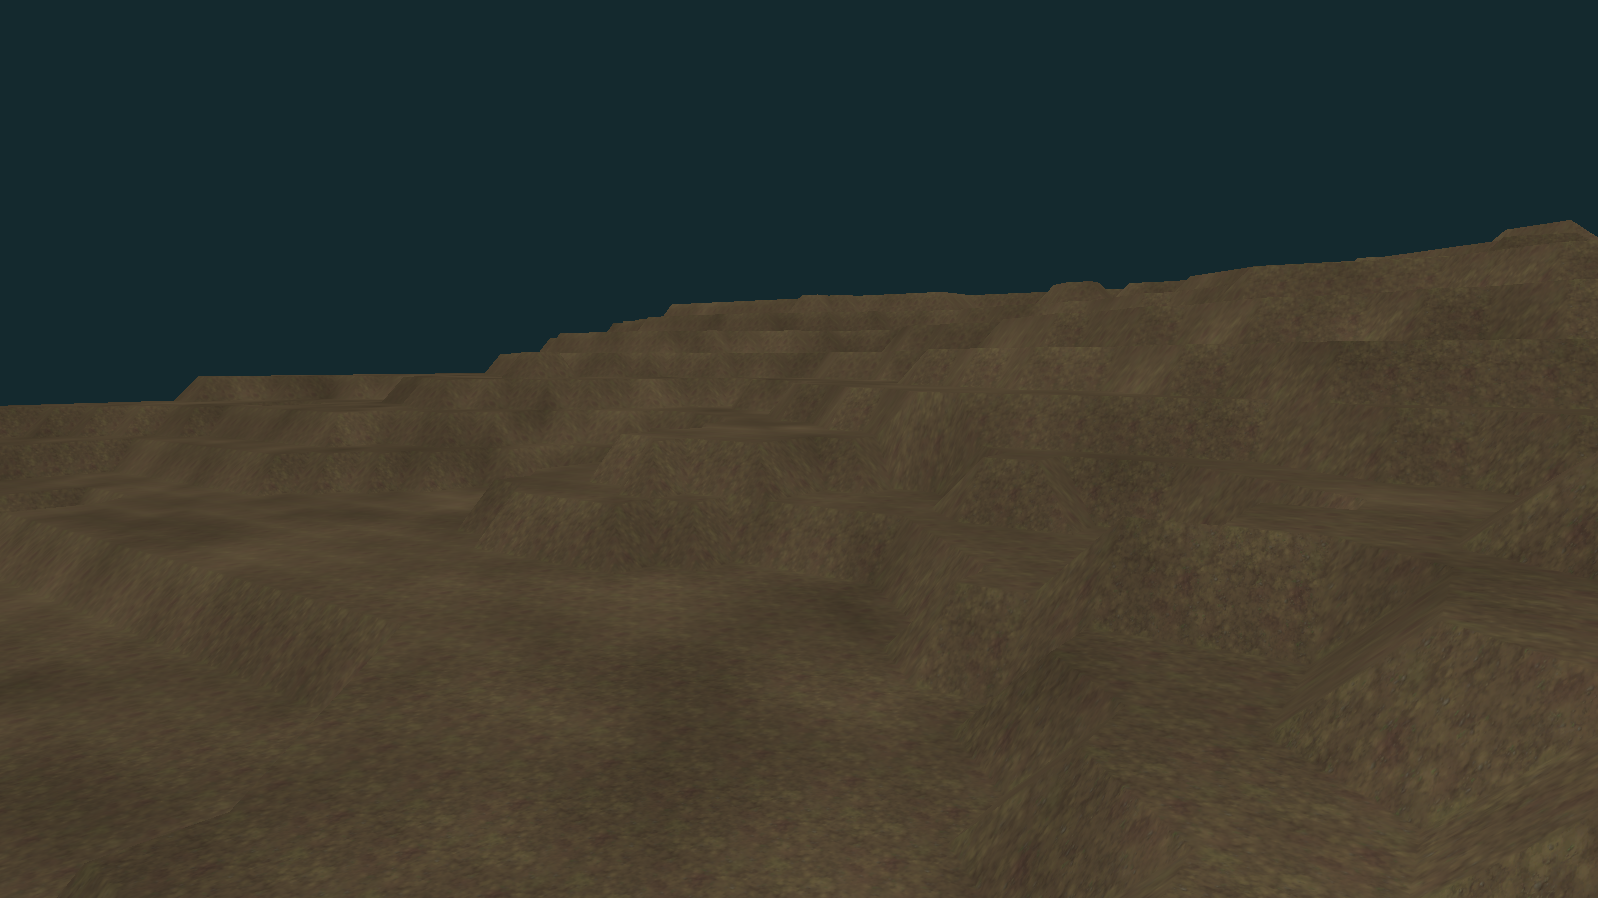
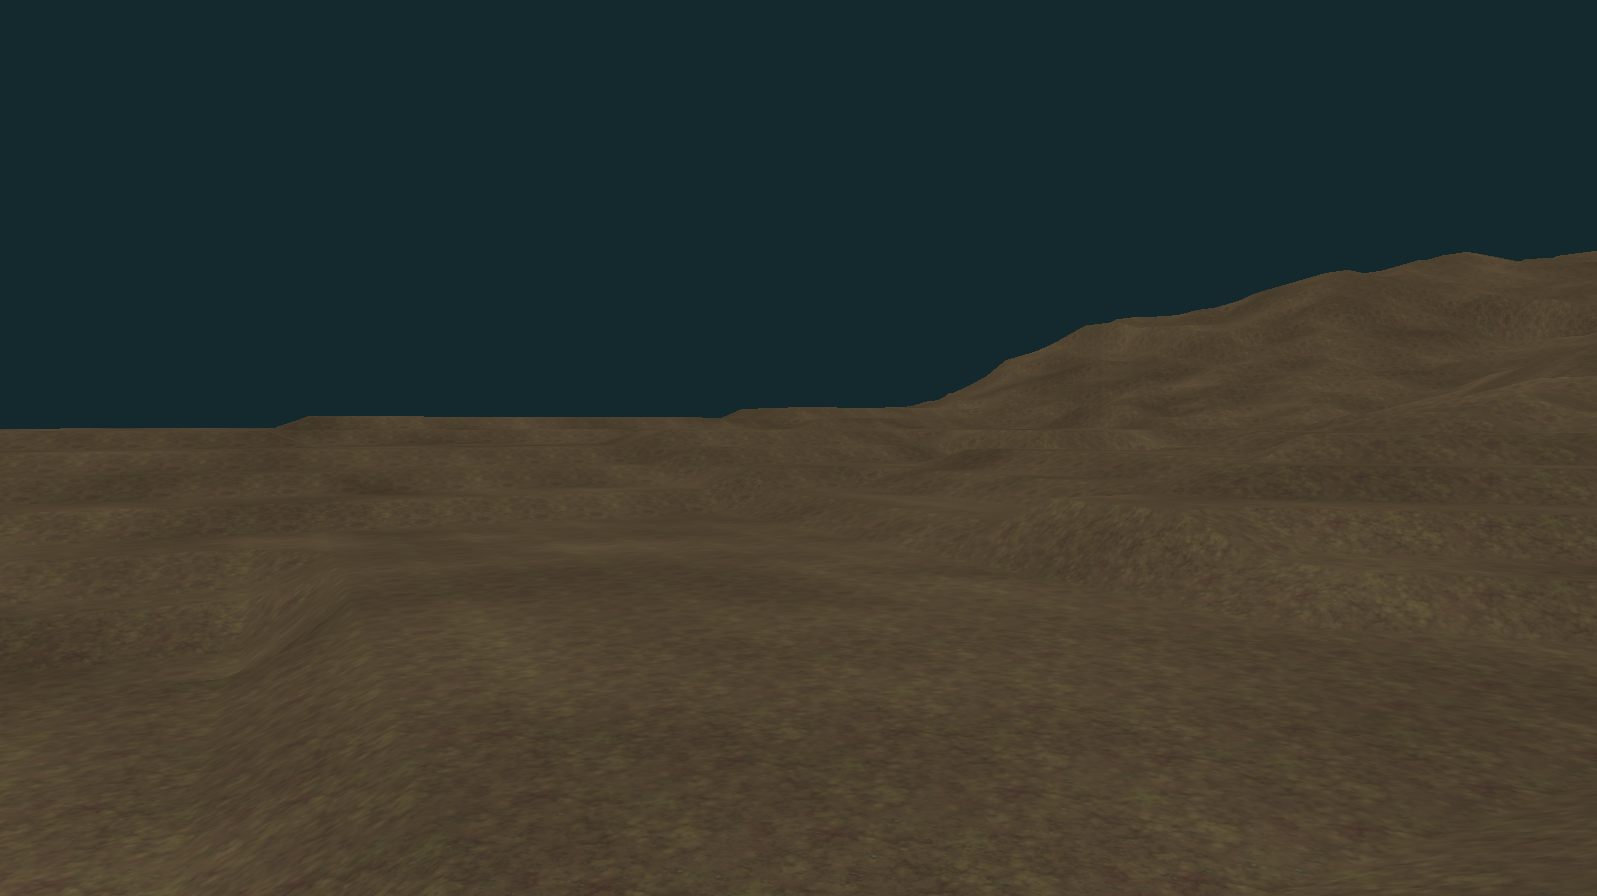
tweak

Changed region(s): [[0.0, 0.25, 1.0, 0.5], [0.092, 0.9688, 0.1227, 1.0]]

diff --git a/mgl/ground_2/model.py b/mgl/ground_2/model.py
@@ -11,7 +11,8 @@ def generate_vertex_data(vertices, indices):
 
 
 class Terrain:
-    def __init__(self, app, position=(0, 0, 0), width=40, step=1, curve=0.5, height_map_path="height_map"):
+    def __init__(self, app, position=(0, 0, 0), width=132, height=132, max_height=100,
+                 step=1, curve=0.5, height_map_path="height_map", rounding_factor=5):
         self.app = app
         self.ctx = app.ctx
         self.position = glm.mat4(glm.translate(glm.mat4(1), glm.vec3(position)))
@@ -19,24 +20,25 @@ class Terrain:
         # Read {app.base_path}/{app.textures_path}/{height_map_path}.png with pygame and numpy
         height_map, height_map_w, height_map_h = app.texture.get_image_data(f'{app.base_path}/{app.texture_path}/{height_map_path}.png')
 
-        height_map_w = 90
-        height_map_h = 90
+        if width != height_map_w and width <= height_map_w:
+            height_map_w = width
+        if height != height_map_h and height <= height_map_h:
+            height_map_h = height
 
         half_step = step / 2
-        half_width = height_map_w / 2
-        half_height = height_map_h / 2
+        half_width = math.floor(height_map_w / 2) + position[0]
+        half_height = math.floor(height_map_h / 2) + position[2]
 
         # Get value at 0,0 i.e. half_width, half_height; use this to place the terrain under the camera
-        max_height = 100
-        centre_height = height_map[math.floor(half_height)][math.floor(half_width)][0] / 255 * max_height
+        centre_height = round(height_map[half_height][half_width][0] / 255 * max_height, rounding_factor) + 1
 
         vertices = []
         for z in range(1, height_map_h):
             for x in range(1, height_map_w):
-                y1 = math.floor(height_map[z][x-step][0] / 255 * max_height - centre_height)
-                y2 = math.floor(height_map[z][x][0] / 255 * max_height - centre_height)
-                y3 = math.floor(height_map[z-step][x][0] / 255 * max_height - centre_height)
-                y4 = math.floor(height_map[z-step][x-step][0] / 255 * max_height - centre_height)
+                y1 = round(height_map[z][x-step][0] / 255 * max_height - centre_height, rounding_factor)
+                y2 = round(height_map[z][x][0] / 255 * max_height - centre_height, rounding_factor)
+                y3 = round(height_map[z-step][x][0] / 255 * max_height - centre_height, rounding_factor)
+                y4 = round(height_map[z-step][x-step][0] / 255 * max_height - centre_height, rounding_factor)
                 vertices.append((x-half_step-half_width, y1, z+half_step-half_height))
                 vertices.append((x+half_step-half_width, y2, z+half_step-half_height))
                 vertices.append((x+half_step-half_width, y3, z-half_step-half_height))

diff --git a/mgl/cube/main.py b/mgl/cube/main.py
@@ -117,7 +117,7 @@ class GraphicsEngine:
             self.render()
             self.delta_time = self.clock.tick(self.target_fps)
             self.fps = self.clock.get_fps()
-            print(f'delta: {self.delta_time:.2f}, fps: {self.fps:.2f}, time: {self.time:.2f}')
+            # print(f'delta: {self.delta_time:.2f}, fps: {self.fps:.2f}, time: {self.time:.2f}')
 
 
 if __name__ == '__main__':

diff --git a/mgl/cubes/main.py b/mgl/cubes/main.py
@@ -136,7 +136,7 @@ class GraphicsEngine:
             self.render()
             self.delta_time = self.clock.tick(self.target_fps)
             self.fps = self.clock.get_fps()
-            print(f'delta: {self.delta_time:.2f}, fps: {self.fps:.2f}, time: {self.time:.2f}')
+            # print(f'delta: {self.delta_time:.2f}, fps: {self.fps:.2f}, time: {self.time:.2f}')
 
 
 if __name__ == '__main__':

diff --git a/mgl/grass/main.py b/mgl/grass/main.py
@@ -127,7 +127,7 @@ class GraphicsEngine:
             self.render()
             self.delta_time = self.clock.tick(self.target_fps)
             self.fps = self.clock.get_fps()
-            print(f'delta: {self.delta_time:.2f}, fps: {self.fps:.2f}, time: {self.time:.2f}')
+            # print(f'delta: {self.delta_time:.2f}, fps: {self.fps:.2f}, time: {self.time:.2f}')
 
 
 if __name__ == '__main__':

diff --git a/mgl/ground/main.py b/mgl/ground/main.py
@@ -130,7 +130,7 @@ class GraphicsEngine:
             self.render()
             self.delta_time = self.clock.tick(self.target_fps)
             self.fps = self.clock.get_fps()
-            print(f'delta: {self.delta_time:.2f}, fps: {self.fps:.2f}, time: {self.time:.2f}')
+            # print(f'delta: {self.delta_time:.2f}, fps: {self.fps:.2f}, time: {self.time:.2f}')
 
 
 if __name__ == '__main__':

diff --git a/mgl/pbr/main.py b/mgl/pbr/main.py
@@ -113,7 +113,7 @@ class GraphicsEngine:
             self.render()
             self.delta_time = self.clock.tick(self.target_fps)
             self.fps = self.clock.get_fps()
-            print(f'delta: {self.delta_time:.2f}, fps: {self.fps:.2f}, time: {self.time:.2f}')
+            # print(f'delta: {self.delta_time:.2f}, fps: {self.fps:.2f}, time: {self.time:.2f}')
 
 
 if __name__ == '__main__':

diff --git a/mgl/ground/model.py b/mgl/ground/model.py
@@ -9,7 +9,7 @@ def generate_vertex_data(vertices, indices):
 
 
 class Terrain:
-    def __init__(self, app, position=(0, 0, 0), width=40, step=1, curve=0.5):
+    def __init__(self, app, position=(0, 0, 0), width=132, step=1, curve=0.5):
         self.app = app
         self.ctx = app.ctx
         self.position = glm.mat4(glm.translate(glm.mat4(1), glm.vec3(position)))

diff --git a/mgl/grass/model.py b/mgl/grass/model.py
@@ -4,7 +4,7 @@ import numpy
 
 
 class Terrain:
-    def __init__(self, app, position=(0, 0, 0), width=40, step=0.1, curve=0.5):
+    def __init__(self, app, position=(0, 0, 0), width=132, step=0.1, curve=0.5):
         self.app = app
         self.ctx = app.ctx
         self.position = glm.mat4(glm.translate(glm.mat4(1), glm.vec3(position)))
